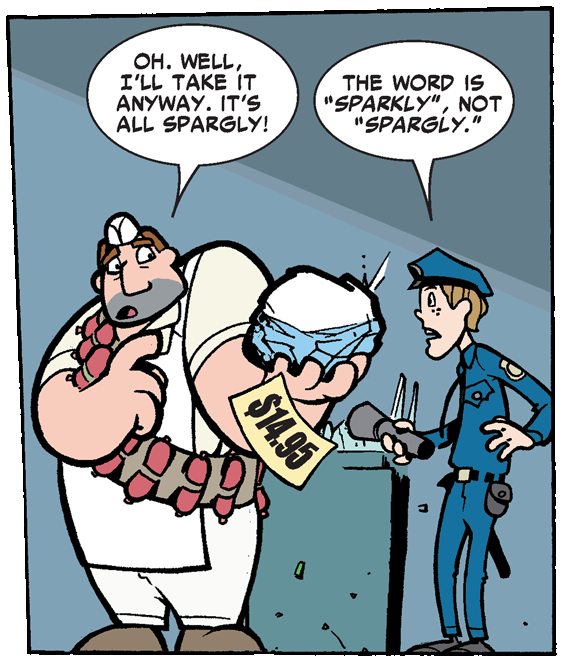
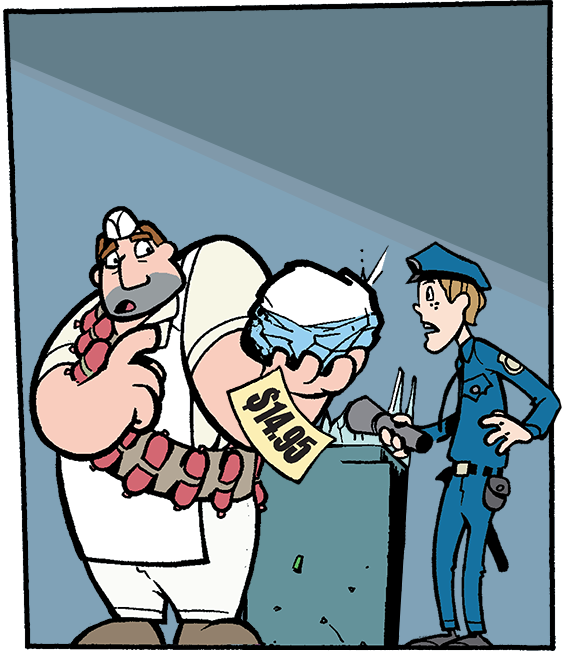
remove bubbles from images

diff --git a/src/index.html b/src/index.html
@@ -106,13 +106,13 @@
                         LETTERER</br></br>
                         SPECIAL THANKS TO THE TEAMS AT PBS KIDS GO! SCHOLASTIC INC., AND SOUP2NUTS
                     </div>
-                    <div id="bubble-two" class="bubble bubble--round" data-point="130, 100">
+                    <div id="bubble-two" class="bubble bubble--round" data-point="230, 150">
                         HEH, HEH, HEH...
                     </div>
                 </section>
                 
                 <section id="frame9" class="frame">
-                    <div id="bubble-three" class="bubble bubble--round" data-point="180, 100">
+                    <div id="bubble-three" class="bubble bubble--round" data-point="200, 130">
                         HOLD IT RIGHT THERE, FELLA!
                     </div>
                 </section>
@@ -123,26 +123,26 @@
                         FELLA? NO, NO... I'M THE BUTCHER! AND I'M HERE TO STEALIZE THIS ANCIENT DIAMOND HERE!
                     </div>
                     
-                    <div id="bubble-five" class="bubble bubble--round" data-point="270, 140">
+                    <div id="bubble-five" class="bubble bubble--round" data-point="400, 240">
                         THE WORD ISN'T "STEALIZE." IT'S "STEAL". AND BESIDES, THAT'S NOT AN ANCIENT DIAMOND.
                     </div>
 
                 </section>
 
                 <section id="frame11" class="frame">
-                    <div id="bubble-six" class="bubble bubble--round" data-point="50, 200">
+                    <div id="bubble-six" class="bubble bubble--round" data-point="100, 250">
                         IT'S NOT?
                     </div>
-                    <div id="bubble-seven" class="bubble bubble--round" data-point="170, 240">
+                    <div id="bubble-seven" class="bubble bubble--round" data-point="530, 240">
                         NOPE. IT'S AN ANCIENT ZIRCONIA. THAT'S AN ANCIENT DIAMOND OVER THERE.
                     </div>
                 </section>
 
                 <section id="frame12" class="frame">
-                    <div id="bubble-eight" class="bubble bubble--round" data-point="80, 170">
+                    <div id="bubble-eight" class="bubble bubble--round" data-point="160, 200">
                         OH. WELL, I'LL TAKE IT ANYWAY. IT'S ALL SPARGLY!
                     </div>
-                    <div id="bubble-nine" class="bubble bubble--round" data-point="140, 180">
+                    <div id="bubble-nine" class="bubble bubble--round" data-point="440, 240">
                         THE WORD IS "SPARKLY", NOT "SPARGLY."
                     </div>
                 </section>
@@ -151,7 +151,7 @@
                     <div id="bubble-twelve" class="bubble bubble-square">
                         MEANWHILE, IN THE SPACESHIP LAIR OF WORDGIRL AND CAPTAIN HUGGY FACE...
                     </div>
-                    <div id="bubble-ten" class="bubble bubble--round" data-point="-170, -240">
+                    <div id="bubble-ten" class="bubble bubble--round" data-point="470, 300">
                         A ROBBERY? AT THE MUSEUM? C'MON, HUGGY.
                     </div>
                     <div id="bubble-eleven" class="bubble bubble--round">

diff --git a/src/js/app/views/dom-view.js b/src/js/app/views/dom-view.js
@@ -1,4 +1,4 @@
-/*global define $ requestAnimationFrame*/
+/*global define $ requestAnimationFrame Snap*/
 
 define(function (require) {
 	
@@ -9,13 +9,15 @@ define(function (require) {
         BubbleCircle = require('app/views/objects/bubble-circle'),
         DomView;
 
+    require('snap');
+
     DomView = Backbone.View.extend({
 
         initialize: function () {
 		    this.el = document.getElementById('dom-view');
             this.cells = this.options.cells;
 
-            this.addBubbles();
+            //this.addBubbles();
             this.layout();
 
             UserEvent.on('resize', this.resize.bind(this));
@@ -23,24 +25,45 @@ define(function (require) {
             //AppEvent.on('animate', this.animate.bind(this));
         },
 
-        addBubbles: function () {
-            $('.bubble--round').each(function () {
-                new BubbleCircle(this);
-            });
-        },
+        //addBubbles: function () {
+        //    $('.bubble--round').each(function () {
+        //        new BubbleCircle(this);
+        //    });
+        //},
 
+        addBubbles: function (el) {
+            var s,
+                i,
+                bubbles = el.querySelectorAll('.bubble--round');
+            
+            s = new Snap(el.offsetWidth, el.offsetHeight);
+            s.node.className = "bubble-canvas";
+            
+            for (i = 0; i < bubbles.length; i += 1) {
+                new BubbleCircle(s, bubbles[i]);
+            }
+
+            el.appendChild(s.node);
+        },
+        
         layout: function () {
             var i,
+                s,
                 cell,
                 element;
 
             for (i = 0; i < this.cells.length; i += 1) {
                 cell = this.cells.at(i);
                 element = document.getElementById(cell.get('src'));
+
                 if (element) {
                     element.style.width = cell.get('w') + 'px';
                     element.style.height = cell.get('h') + 'px';
                     element.style.webkitTransform = 'translate3d(' + cell.get('x') + 'px, ' + cell.get('y') + 'px, 0px)';
+
+                    if (element.querySelectorAll('.bubble--round')) {
+                        this.addBubbles(element);
+                    }
                 }
             }
         },

diff --git a/src/js/app/views/objects/bubble-circle.js b/src/js/app/views/objects/bubble-circle.js
@@ -9,27 +9,28 @@ define(function (require) {
 
     require('snap');
 
-    BubbleCircle = function (el) {
+    BubbleCircle = function (s, el) {
         var bubble,
             arrow,
             points,
             stroke = 3;
 
         function init() {
-            this.s = new Snap(1000, 1000);
+            //this.s = new Snap(1000, 1000);
 
+            console.log(el);
             if (el.getAttribute('data-point')) {
                 addArrow();
             }
 
-            bubble = this.s.ellipse(el.offsetWidth / 2, el.offsetHeight / 2, (el.offsetWidth / 2) - (stroke * 2), (el.offsetHeight / 2) - (stroke * 2));
+            bubble = s.ellipse(el.offsetLeft + el.offsetWidth / 2, el.offsetTop + el.offsetHeight / 2, (el.offsetWidth / 2) - (stroke * 2), (el.offsetHeight / 2) - (stroke * 2));
             bubble.attr({
                 fill: "#fff",
                 stroke: "#000",
                 strokeWidth: stroke
             });
 
-            el.appendChild(this.s.node);
+            //el.appendChild(this.s.node);
         }
 
         function addArrow() {
@@ -42,8 +43,8 @@ define(function (require) {
 
             arr = el.getAttribute('data-point').split(',');
             p1 = {x: arr[0], y: arr[1]};
-            center = {x: el.offsetWidth / 2, y: el.offsetHeight / 2};
-            p2 = {x: el.offsetWidth / 2, y: el.offsetHeight / 2};
+            center = {x: el.offsetLeft + el.offsetWidth / 2, y: el.offsetTop + el.offsetHeight / 2};
+            p2 = {x: el.offsetLeft + el.offsetWidth / 2, y: el.offsetTop + el.offsetHeight / 2};
 
             var dx = p2.x - p1.x,
                 dy = p2.y - p1.y;
@@ -59,7 +60,7 @@ define(function (require) {
                 p3
             ];
 
-            arrow = this.s.polygon(points[0].x + "," + points[0].y + " " + points[1].x + "," + points[1].y + " " + points[2].x + "," + points[2].y).attr({
+            arrow = s.polygon(points[0].x + "," + points[0].y + " " + points[1].x + "," + points[1].y + " " + points[2].x + "," + points[2].y).attr({
                 fill: "#fff",
                 stroke: "#000",
                 strokeWidth: stroke
